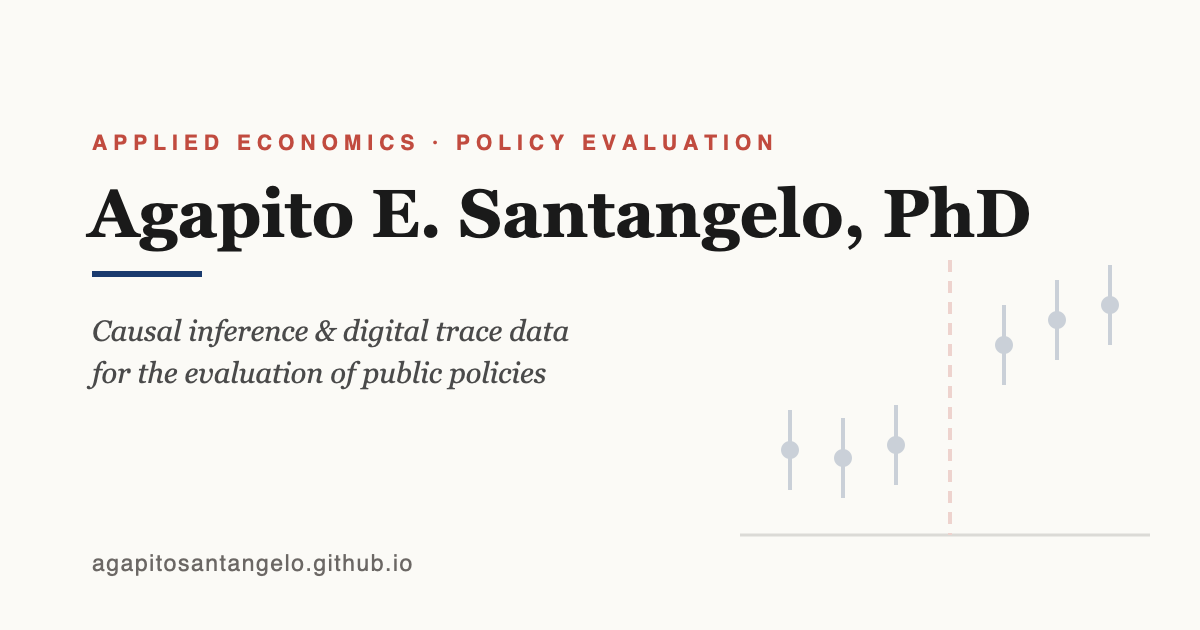
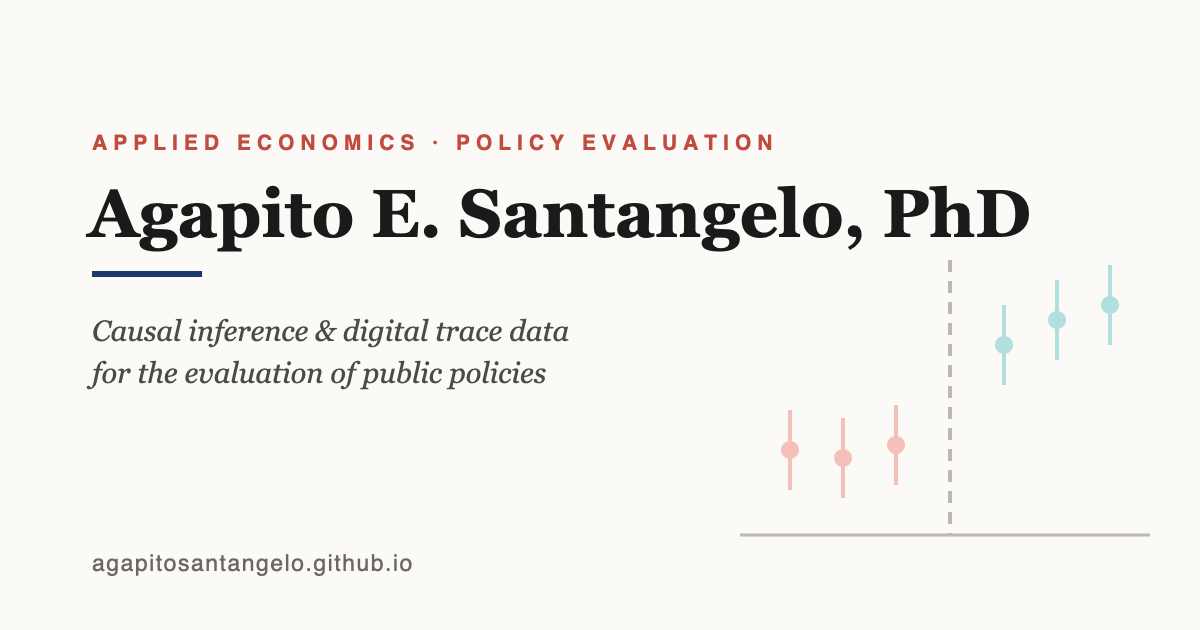
Palette event-study bicolore alla Callaway-Sant'Anna (ggdid)
Colori ufficiali del pacchetto did (gplot.R): Pre #e87d72, Post #56bcc2.
- Token in :root: --es-pre/--es-post (grafica) + varianti -ink AA per testo
- Logo aggiornato ovunque: favicon (varianti scure per leggibilità),
  event-study.svg, marchio sidebar x21, filigrana og-card
- Linea del trattamento neutra (grigio tratteggiato) come nei plot classici
- Colori semantici armonizzati: working paper e "in review" = famiglia pre
  (pre-print), conferenze / "in corso" / posizione attuale = famiglia post

diff --git a/assets/style.css b/assets/style.css
@@ -13,6 +13,12 @@
   --accent:   #1a3a6e;
   --accent-h: #c14b3f;
 
+  /* palette event-study (ggdid, Callaway & Sant'Anna): grafica e varianti testo AA */
+  --es-pre:      #e87d72;
+  --es-post:     #56bcc2;
+  --es-pre-ink:  #b3574e;
+  --es-post-ink: #27737a;
+
   --serif:  "Crimson Pro", "EB Garamond", Georgia, "Times New Roman", serif;
   --sans:   "Geist", "Public Sans", -apple-system, BlinkMacSystemFont, "Helvetica Neue", Arial, sans-serif;
 
@@ -344,8 +350,8 @@ h3 {
 }
 
 .entry-tag.peer    { border-color: var(--accent); color: var(--accent); }
-.entry-tag.wp      { border-color: #b88914; color: #8a6700; }
-.entry-tag.conf    { border-color: #6a8859; color: #4f6841; }
+.entry-tag.wp      { border-color: var(--es-pre); color: var(--es-pre-ink); }
+.entry-tag.conf    { border-color: var(--es-post); color: var(--es-post-ink); }
 .entry-tag.report  { border-color: var(--ink-mute); color: var(--ink-mute); }
 
 /* Two column timeline (education / experience) */
@@ -470,7 +476,7 @@ h3 {
   width: 0.45em;
   height: 0.45em;
   border-radius: 50%;
-  background: #4f6841;      /* più scuro: 5.93:1, era 3.81:1 */
+  background: var(--es-post-ink);  /* teal "post": posizione attiva */
   margin-right: 0.4em;
   vertical-align: 0.08em;
 }
@@ -620,8 +626,8 @@ h3 {
   border: 1px solid var(--rule);
   color: var(--ink-mute);
 }
-.project-status.ongoing  { border-color: #6a8859; color: #4f6841; }
-.project-status.review   { border-color: #b88914; color: #8a6700; }
+.project-status.ongoing  { border-color: var(--es-post); color: var(--es-post-ink); }
+.project-status.review   { border-color: var(--es-pre); color: var(--es-pre-ink); }
 .project-status.published { border-color: var(--accent); color: var(--accent); }
 
 .project-summary {

diff --git a/en/index.html b/en/index.html
@@ -110,13 +110,17 @@
     <div class="sidebar-mark" aria-hidden="true">
       <svg viewBox="0 0 150 64" focusable="false">
         <line x1="6" y1="55" x2="144" y2="55" stroke="var(--rule)" stroke-width="1.2"/>
-        <line x1="75" y1="6" x2="75" y2="55" stroke="var(--accent-h)" stroke-width="1" stroke-dasharray="4 3"/>
-        <g stroke="var(--accent)" stroke-width="1">
+        <line x1="75" y1="6" x2="75" y2="55" stroke="var(--ink-mute)" stroke-width="1" stroke-dasharray="4 3"/>
+        <g stroke="var(--es-pre)" stroke-width="1">
           <line x1="20" y1="37" x2="20" y2="49"/><line x1="42" y1="39" x2="42" y2="51"/><line x1="64" y1="36" x2="64" y2="48"/>
+        </g>
+        <g stroke="var(--es-post)" stroke-width="1">
           <line x1="86" y1="20" x2="86" y2="33"/><line x1="108" y1="15" x2="108" y2="27"/><line x1="130" y1="12" x2="130" y2="24"/>
         </g>
-        <g fill="var(--accent)">
+        <g fill="var(--es-pre)">
           <circle cx="20" cy="43" r="2.4"/><circle cx="42" cy="45" r="2.4"/><circle cx="64" cy="42" r="2.4"/>
+        </g>
+        <g fill="var(--es-post)">
           <circle cx="86" cy="26.5" r="2.4"/><circle cx="108" cy="21" r="2.4"/><circle cx="130" cy="18" r="2.4"/>
         </g>
       </svg>

diff --git a/es/index.html b/es/index.html
@@ -110,13 +110,17 @@
     <div class="sidebar-mark" aria-hidden="true">
       <svg viewBox="0 0 150 64" focusable="false">
         <line x1="6" y1="55" x2="144" y2="55" stroke="var(--rule)" stroke-width="1.2"/>
-        <line x1="75" y1="6" x2="75" y2="55" stroke="var(--accent-h)" stroke-width="1" stroke-dasharray="4 3"/>
-        <g stroke="var(--accent)" stroke-width="1">
+        <line x1="75" y1="6" x2="75" y2="55" stroke="var(--ink-mute)" stroke-width="1" stroke-dasharray="4 3"/>
+        <g stroke="var(--es-pre)" stroke-width="1">
           <line x1="20" y1="37" x2="20" y2="49"/><line x1="42" y1="39" x2="42" y2="51"/><line x1="64" y1="36" x2="64" y2="48"/>
+        </g>
+        <g stroke="var(--es-post)" stroke-width="1">
           <line x1="86" y1="20" x2="86" y2="33"/><line x1="108" y1="15" x2="108" y2="27"/><line x1="130" y1="12" x2="130" y2="24"/>
         </g>
-        <g fill="var(--accent)">
+        <g fill="var(--es-pre)">
           <circle cx="20" cy="43" r="2.4"/><circle cx="42" cy="45" r="2.4"/><circle cx="64" cy="42" r="2.4"/>
+        </g>
+        <g fill="var(--es-post)">
           <circle cx="86" cy="26.5" r="2.4"/><circle cx="108" cy="21" r="2.4"/><circle cx="130" cy="18" r="2.4"/>
         </g>
       </svg>

diff --git a/it/index.html b/it/index.html
@@ -110,13 +110,17 @@
     <div class="sidebar-mark" aria-hidden="true">
       <svg viewBox="0 0 150 64" focusable="false">
         <line x1="6" y1="55" x2="144" y2="55" stroke="var(--rule)" stroke-width="1.2"/>
-        <line x1="75" y1="6" x2="75" y2="55" stroke="var(--accent-h)" stroke-width="1" stroke-dasharray="4 3"/>
-        <g stroke="var(--accent)" stroke-width="1">
+        <line x1="75" y1="6" x2="75" y2="55" stroke="var(--ink-mute)" stroke-width="1" stroke-dasharray="4 3"/>
+        <g stroke="var(--es-pre)" stroke-width="1">
           <line x1="20" y1="37" x2="20" y2="49"/><line x1="42" y1="39" x2="42" y2="51"/><line x1="64" y1="36" x2="64" y2="48"/>
+        </g>
+        <g stroke="var(--es-post)" stroke-width="1">
           <line x1="86" y1="20" x2="86" y2="33"/><line x1="108" y1="15" x2="108" y2="27"/><line x1="130" y1="12" x2="130" y2="24"/>
         </g>
-        <g fill="var(--accent)">
+        <g fill="var(--es-pre)">
           <circle cx="20" cy="43" r="2.4"/><circle cx="42" cy="45" r="2.4"/><circle cx="64" cy="42" r="2.4"/>
+        </g>
+        <g fill="var(--es-post)">
           <circle cx="86" cy="26.5" r="2.4"/><circle cx="108" cy="21" r="2.4"/><circle cx="130" cy="18" r="2.4"/>
         </g>
       </svg>

diff --git a/en/conferences.html b/en/conferences.html
@@ -72,13 +72,17 @@
     <div class="sidebar-mark" aria-hidden="true">
       <svg viewBox="0 0 150 64" focusable="false">
         <line x1="6" y1="55" x2="144" y2="55" stroke="var(--rule)" stroke-width="1.2"/>
-        <line x1="75" y1="6" x2="75" y2="55" stroke="var(--accent-h)" stroke-width="1" stroke-dasharray="4 3"/>
-        <g stroke="var(--accent)" stroke-width="1">
+        <line x1="75" y1="6" x2="75" y2="55" stroke="var(--ink-mute)" stroke-width="1" stroke-dasharray="4 3"/>
+        <g stroke="var(--es-pre)" stroke-width="1">
           <line x1="20" y1="37" x2="20" y2="49"/><line x1="42" y1="39" x2="42" y2="51"/><line x1="64" y1="36" x2="64" y2="48"/>
+        </g>
+        <g stroke="var(--es-post)" stroke-width="1">
           <line x1="86" y1="20" x2="86" y2="33"/><line x1="108" y1="15" x2="108" y2="27"/><line x1="130" y1="12" x2="130" y2="24"/>
         </g>
-        <g fill="var(--accent)">
+        <g fill="var(--es-pre)">
           <circle cx="20" cy="43" r="2.4"/><circle cx="42" cy="45" r="2.4"/><circle cx="64" cy="42" r="2.4"/>
+        </g>
+        <g fill="var(--es-post)">
           <circle cx="86" cy="26.5" r="2.4"/><circle cx="108" cy="21" r="2.4"/><circle cx="130" cy="18" r="2.4"/>
         </g>
       </svg>

diff --git a/en/contact.html b/en/contact.html
@@ -72,13 +72,17 @@
     <div class="sidebar-mark" aria-hidden="true">
       <svg viewBox="0 0 150 64" focusable="false">
         <line x1="6" y1="55" x2="144" y2="55" stroke="var(--rule)" stroke-width="1.2"/>
-        <line x1="75" y1="6" x2="75" y2="55" stroke="var(--accent-h)" stroke-width="1" stroke-dasharray="4 3"/>
-        <g stroke="var(--accent)" stroke-width="1">
+        <line x1="75" y1="6" x2="75" y2="55" stroke="var(--ink-mute)" stroke-width="1" stroke-dasharray="4 3"/>
+        <g stroke="var(--es-pre)" stroke-width="1">
           <line x1="20" y1="37" x2="20" y2="49"/><line x1="42" y1="39" x2="42" y2="51"/><line x1="64" y1="36" x2="64" y2="48"/>
+        </g>
+        <g stroke="var(--es-post)" stroke-width="1">
           <line x1="86" y1="20" x2="86" y2="33"/><line x1="108" y1="15" x2="108" y2="27"/><line x1="130" y1="12" x2="130" y2="24"/>
         </g>
-        <g fill="var(--accent)">
+        <g fill="var(--es-pre)">
           <circle cx="20" cy="43" r="2.4"/><circle cx="42" cy="45" r="2.4"/><circle cx="64" cy="42" r="2.4"/>
+        </g>
+        <g fill="var(--es-post)">
           <circle cx="86" cy="26.5" r="2.4"/><circle cx="108" cy="21" r="2.4"/><circle cx="130" cy="18" r="2.4"/>
         </g>
       </svg>

diff --git a/en/dissemination.html b/en/dissemination.html
@@ -72,13 +72,17 @@
     <div class="sidebar-mark" aria-hidden="true">
       <svg viewBox="0 0 150 64" focusable="false">
         <line x1="6" y1="55" x2="144" y2="55" stroke="var(--rule)" stroke-width="1.2"/>
-        <line x1="75" y1="6" x2="75" y2="55" stroke="var(--accent-h)" stroke-width="1" stroke-dasharray="4 3"/>
-        <g stroke="var(--accent)" stroke-width="1">
+        <line x1="75" y1="6" x2="75" y2="55" stroke="var(--ink-mute)" stroke-width="1" stroke-dasharray="4 3"/>
+        <g stroke="var(--es-pre)" stroke-width="1">
           <line x1="20" y1="37" x2="20" y2="49"/><line x1="42" y1="39" x2="42" y2="51"/><line x1="64" y1="36" x2="64" y2="48"/>
+        </g>
+        <g stroke="var(--es-post)" stroke-width="1">
           <line x1="86" y1="20" x2="86" y2="33"/><line x1="108" y1="15" x2="108" y2="27"/><line x1="130" y1="12" x2="130" y2="24"/>
         </g>
-        <g fill="var(--accent)">
+        <g fill="var(--es-pre)">
           <circle cx="20" cy="43" r="2.4"/><circle cx="42" cy="45" r="2.4"/><circle cx="64" cy="42" r="2.4"/>
+        </g>
+        <g fill="var(--es-post)">
           <circle cx="86" cy="26.5" r="2.4"/><circle cx="108" cy="21" r="2.4"/><circle cx="130" cy="18" r="2.4"/>
         </g>
       </svg>

diff --git a/en/projects.html b/en/projects.html
@@ -72,13 +72,17 @@
     <div class="sidebar-mark" aria-hidden="true">
       <svg viewBox="0 0 150 64" focusable="false">
         <line x1="6" y1="55" x2="144" y2="55" stroke="var(--rule)" stroke-width="1.2"/>
-        <line x1="75" y1="6" x2="75" y2="55" stroke="var(--accent-h)" stroke-width="1" stroke-dasharray="4 3"/>
-        <g stroke="var(--accent)" stroke-width="1">
+        <line x1="75" y1="6" x2="75" y2="55" stroke="var(--ink-mute)" stroke-width="1" stroke-dasharray="4 3"/>
+        <g stroke="var(--es-pre)" stroke-width="1">
           <line x1="20" y1="37" x2="20" y2="49"/><line x1="42" y1="39" x2="42" y2="51"/><line x1="64" y1="36" x2="64" y2="48"/>
+        </g>
+        <g stroke="var(--es-post)" stroke-width="1">
           <line x1="86" y1="20" x2="86" y2="33"/><line x1="108" y1="15" x2="108" y2="27"/><line x1="130" y1="12" x2="130" y2="24"/>
         </g>
-        <g fill="var(--accent)">
+        <g fill="var(--es-pre)">
           <circle cx="20" cy="43" r="2.4"/><circle cx="42" cy="45" r="2.4"/><circle cx="64" cy="42" r="2.4"/>
+        </g>
+        <g fill="var(--es-post)">
           <circle cx="86" cy="26.5" r="2.4"/><circle cx="108" cy="21" r="2.4"/><circle cx="130" cy="18" r="2.4"/>
         </g>
       </svg>

diff --git a/en/research.html b/en/research.html
@@ -72,13 +72,17 @@
     <div class="sidebar-mark" aria-hidden="true">
       <svg viewBox="0 0 150 64" focusable="false">
         <line x1="6" y1="55" x2="144" y2="55" stroke="var(--rule)" stroke-width="1.2"/>
-        <line x1="75" y1="6" x2="75" y2="55" stroke="var(--accent-h)" stroke-width="1" stroke-dasharray="4 3"/>
-        <g stroke="var(--accent)" stroke-width="1">
+        <line x1="75" y1="6" x2="75" y2="55" stroke="var(--ink-mute)" stroke-width="1" stroke-dasharray="4 3"/>
+        <g stroke="var(--es-pre)" stroke-width="1">
           <line x1="20" y1="37" x2="20" y2="49"/><line x1="42" y1="39" x2="42" y2="51"/><line x1="64" y1="36" x2="64" y2="48"/>
+        </g>
+        <g stroke="var(--es-post)" stroke-width="1">
           <line x1="86" y1="20" x2="86" y2="33"/><line x1="108" y1="15" x2="108" y2="27"/><line x1="130" y1="12" x2="130" y2="24"/>
         </g>
-        <g fill="var(--accent)">
+        <g fill="var(--es-pre)">
           <circle cx="20" cy="43" r="2.4"/><circle cx="42" cy="45" r="2.4"/><circle cx="64" cy="42" r="2.4"/>
+        </g>
+        <g fill="var(--es-post)">
           <circle cx="86" cy="26.5" r="2.4"/><circle cx="108" cy="21" r="2.4"/><circle cx="130" cy="18" r="2.4"/>
         </g>
       </svg>

diff --git a/en/teaching.html b/en/teaching.html
@@ -72,13 +72,17 @@
     <div class="sidebar-mark" aria-hidden="true">
       <svg viewBox="0 0 150 64" focusable="false">
         <line x1="6" y1="55" x2="144" y2="55" stroke="var(--rule)" stroke-width="1.2"/>
-        <line x1="75" y1="6" x2="75" y2="55" stroke="var(--accent-h)" stroke-width="1" stroke-dasharray="4 3"/>
-        <g stroke="var(--accent)" stroke-width="1">
+        <line x1="75" y1="6" x2="75" y2="55" stroke="var(--ink-mute)" stroke-width="1" stroke-dasharray="4 3"/>
+        <g stroke="var(--es-pre)" stroke-width="1">
           <line x1="20" y1="37" x2="20" y2="49"/><line x1="42" y1="39" x2="42" y2="51"/><line x1="64" y1="36" x2="64" y2="48"/>
+        </g>
+        <g stroke="var(--es-post)" stroke-width="1">
           <line x1="86" y1="20" x2="86" y2="33"/><line x1="108" y1="15" x2="108" y2="27"/><line x1="130" y1="12" x2="130" y2="24"/>
         </g>
-        <g fill="var(--accent)">
+        <g fill="var(--es-pre)">
           <circle cx="20" cy="43" r="2.4"/><circle cx="42" cy="45" r="2.4"/><circle cx="64" cy="42" r="2.4"/>
+        </g>
+        <g fill="var(--es-post)">
           <circle cx="86" cy="26.5" r="2.4"/><circle cx="108" cy="21" r="2.4"/><circle cx="130" cy="18" r="2.4"/>
         </g>
       </svg>

diff --git a/es/conferences.html b/es/conferences.html
@@ -72,13 +72,17 @@
     <div class="sidebar-mark" aria-hidden="true">
       <svg viewBox="0 0 150 64" focusable="false">
         <line x1="6" y1="55" x2="144" y2="55" stroke="var(--rule)" stroke-width="1.2"/>
-        <line x1="75" y1="6" x2="75" y2="55" stroke="var(--accent-h)" stroke-width="1" stroke-dasharray="4 3"/>
-        <g stroke="var(--accent)" stroke-width="1">
+        <line x1="75" y1="6" x2="75" y2="55" stroke="var(--ink-mute)" stroke-width="1" stroke-dasharray="4 3"/>
+        <g stroke="var(--es-pre)" stroke-width="1">
           <line x1="20" y1="37" x2="20" y2="49"/><line x1="42" y1="39" x2="42" y2="51"/><line x1="64" y1="36" x2="64" y2="48"/>
+        </g>
+        <g stroke="var(--es-post)" stroke-width="1">
           <line x1="86" y1="20" x2="86" y2="33"/><line x1="108" y1="15" x2="108" y2="27"/><line x1="130" y1="12" x2="130" y2="24"/>
         </g>
-        <g fill="var(--accent)">
+        <g fill="var(--es-pre)">
           <circle cx="20" cy="43" r="2.4"/><circle cx="42" cy="45" r="2.4"/><circle cx="64" cy="42" r="2.4"/>
+        </g>
+        <g fill="var(--es-post)">
           <circle cx="86" cy="26.5" r="2.4"/><circle cx="108" cy="21" r="2.4"/><circle cx="130" cy="18" r="2.4"/>
         </g>
       </svg>

diff --git a/es/contact.html b/es/contact.html
@@ -72,13 +72,17 @@
     <div class="sidebar-mark" aria-hidden="true">
       <svg viewBox="0 0 150 64" focusable="false">
         <line x1="6" y1="55" x2="144" y2="55" stroke="var(--rule)" stroke-width="1.2"/>
-        <line x1="75" y1="6" x2="75" y2="55" stroke="var(--accent-h)" stroke-width="1" stroke-dasharray="4 3"/>
-        <g stroke="var(--accent)" stroke-width="1">
+        <line x1="75" y1="6" x2="75" y2="55" stroke="var(--ink-mute)" stroke-width="1" stroke-dasharray="4 3"/>
+        <g stroke="var(--es-pre)" stroke-width="1">
           <line x1="20" y1="37" x2="20" y2="49"/><line x1="42" y1="39" x2="42" y2="51"/><line x1="64" y1="36" x2="64" y2="48"/>
+        </g>
+        <g stroke="var(--es-post)" stroke-width="1">
           <line x1="86" y1="20" x2="86" y2="33"/><line x1="108" y1="15" x2="108" y2="27"/><line x1="130" y1="12" x2="130" y2="24"/>
         </g>
-        <g fill="var(--accent)">
+        <g fill="var(--es-pre)">
           <circle cx="20" cy="43" r="2.4"/><circle cx="42" cy="45" r="2.4"/><circle cx="64" cy="42" r="2.4"/>
+        </g>
+        <g fill="var(--es-post)">
           <circle cx="86" cy="26.5" r="2.4"/><circle cx="108" cy="21" r="2.4"/><circle cx="130" cy="18" r="2.4"/>
         </g>
       </svg>
